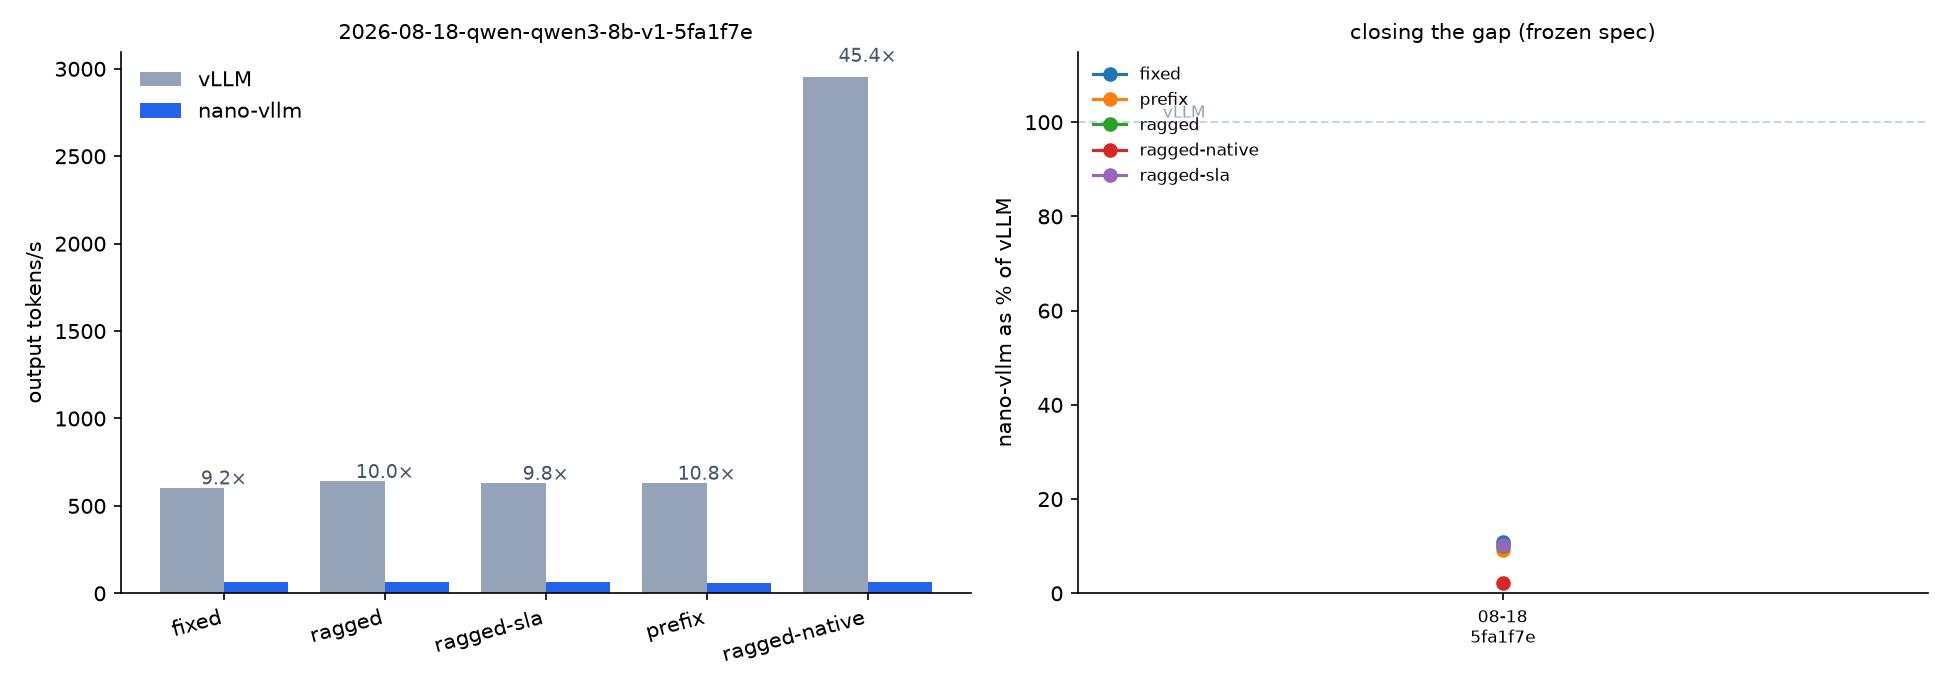
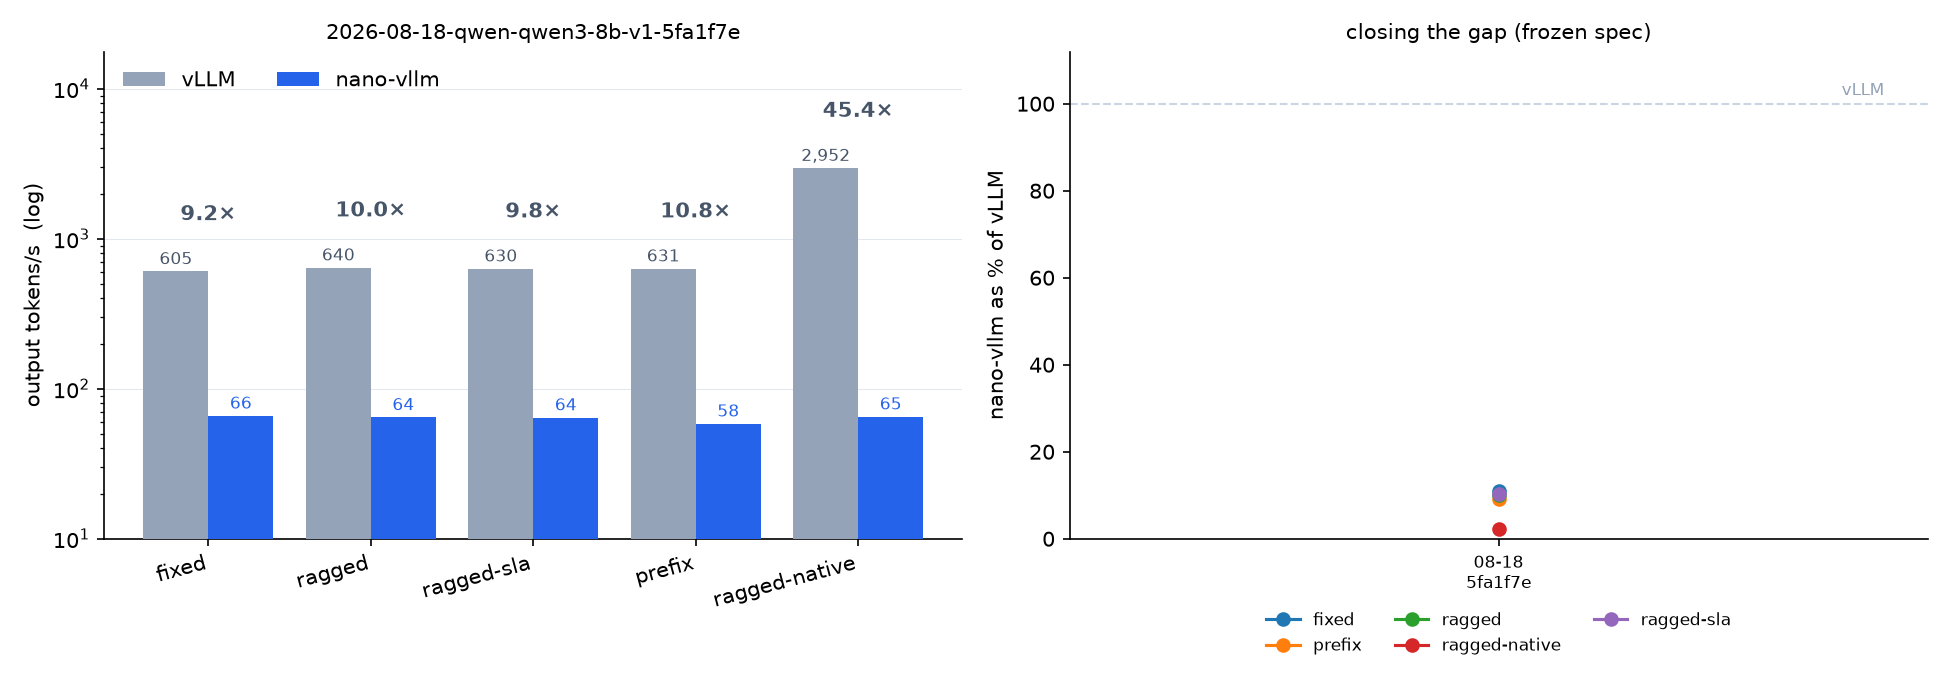
Make the chart readable at a 45x spread
Linear axis collapsed every nano-vllm bar to nothing next to vLLM at native
concurrency; log scale plus value labels. Move the second panel's legend out
of the plot area, where it covered the ceiling line.

diff --git a/bench/chart.py b/bench/chart.py
@@ -60,20 +60,27 @@ def main() -> int:
     fig, axes = plt.subplots(1, 2 if rows else 1, figsize=(13 if rows else 7, 4.6))
     ax = axes[0] if rows else axes
 
-    # Panel 1 — this run, side by side.
+    # Panel 1 — this run, side by side. Log scale: at native concurrency vLLM
+    # is 45x nano, and on a linear axis every nano bar collapses to nothing.
     x = range(len(names))
     nano = [pick(runs[n].get("nano-vllm", {}), "output_throughput") or 0 for n in names]
     vllm = [pick(runs[n].get("vllm", {}), "output_throughput") or 0 for n in names]
-    ax.bar([i - 0.2 for i in x], vllm, 0.4, label="vLLM", color=VLLM)
-    ax.bar([i + 0.2 for i in x], nano, 0.4, label="nano-vllm", color=NANO)
+    ax.bar([i - 0.2 for i in x], vllm, 0.4, label="vLLM", color=VLLM, zorder=3)
+    ax.bar([i + 0.2 for i in x], nano, 0.4, label="nano-vllm", color=NANO, zorder=3)
+    ax.set_yscale("log")
+    ax.set_ylim(10, max(vllm) * 6)
     for i, (n, v) in enumerate(zip(nano, vllm)):
+        ax.text(i - 0.2, v * 1.12, f"{v:,.0f}", ha="center", fontsize=8, color="#475569")
+        ax.text(i + 0.2, n * 1.12, f"{n:,.0f}", ha="center", fontsize=8, color=NANO)
         if n and v:
-            ax.text(i, max(n, v) * 1.03, f"{v / n:.1f}×", ha="center", fontsize=9, color="#475569")
+            ax.text(i, max(n, v) * 2.2, f"{v / n:.1f}\u00d7", ha="center",
+                    fontsize=10, weight="bold", color="#475569")
     ax.set_xticks(list(x))
     ax.set_xticklabels(names, rotation=15, ha="right")
-    ax.set_ylabel("output tokens/s")
+    ax.set_ylabel("output tokens/s  (log)")
     ax.set_title(run_dir.name, fontsize=10)
-    ax.legend(frameon=False)
+    ax.legend(frameon=False, loc="upper left", ncol=2)
+    ax.grid(axis="y", lw=0.5, color="#e2e8f0", zorder=0)
     ax.spines[["top", "right"]].set_visible(False)
 
     # Panel 2 — the arc. Percent of vLLM, so the ceiling is fixed at 100 and
@@ -91,14 +98,17 @@ def main() -> int:
             xs = [i for i, key in enumerate(runs_seen) if key in series]
             ax2.plot(xs, [series[runs_seen[i]] for i in xs], marker="o", label=scenario)
         ax2.axhline(100, ls="--", lw=1, color="#cbd5e1")
-        ax2.text(-0.4, 101, "vLLM", fontsize=8, color="#94a3b8")
+        ax2.text(len(runs_seen) - 0.55, 102, "vLLM", fontsize=8,
+                 color="#94a3b8", ha="right")
         ax2.set_xticks(range(len(runs_seen)))
         ax2.set_xticklabels([f"{d[5:]}\n{s[:7]}" for d, s in runs_seen], fontsize=8)
-        ax2.set_xlim(-0.5, max(len(runs_seen) - 0.5, 0.5))
-        ax2.set_ylim(0, 115)
+        # One run is a scatter, not a line; pad so the dots are not on the spine.
+        ax2.set_xlim(-0.5, len(runs_seen) - 0.5 if len(runs_seen) > 1 else 0.5)
+        ax2.set_ylim(0, 112)
         ax2.set_ylabel("nano-vllm as % of vLLM")
         ax2.set_title("closing the gap (frozen spec)", fontsize=10)
-        ax2.legend(frameon=False, fontsize=8, loc="upper left")
+        ax2.legend(frameon=False, fontsize=8, loc="upper center",
+                   bbox_to_anchor=(0.5, -0.12), ncol=3)
         ax2.spines[["top", "right"]].set_visible(False)
 
     fig.tight_layout()
